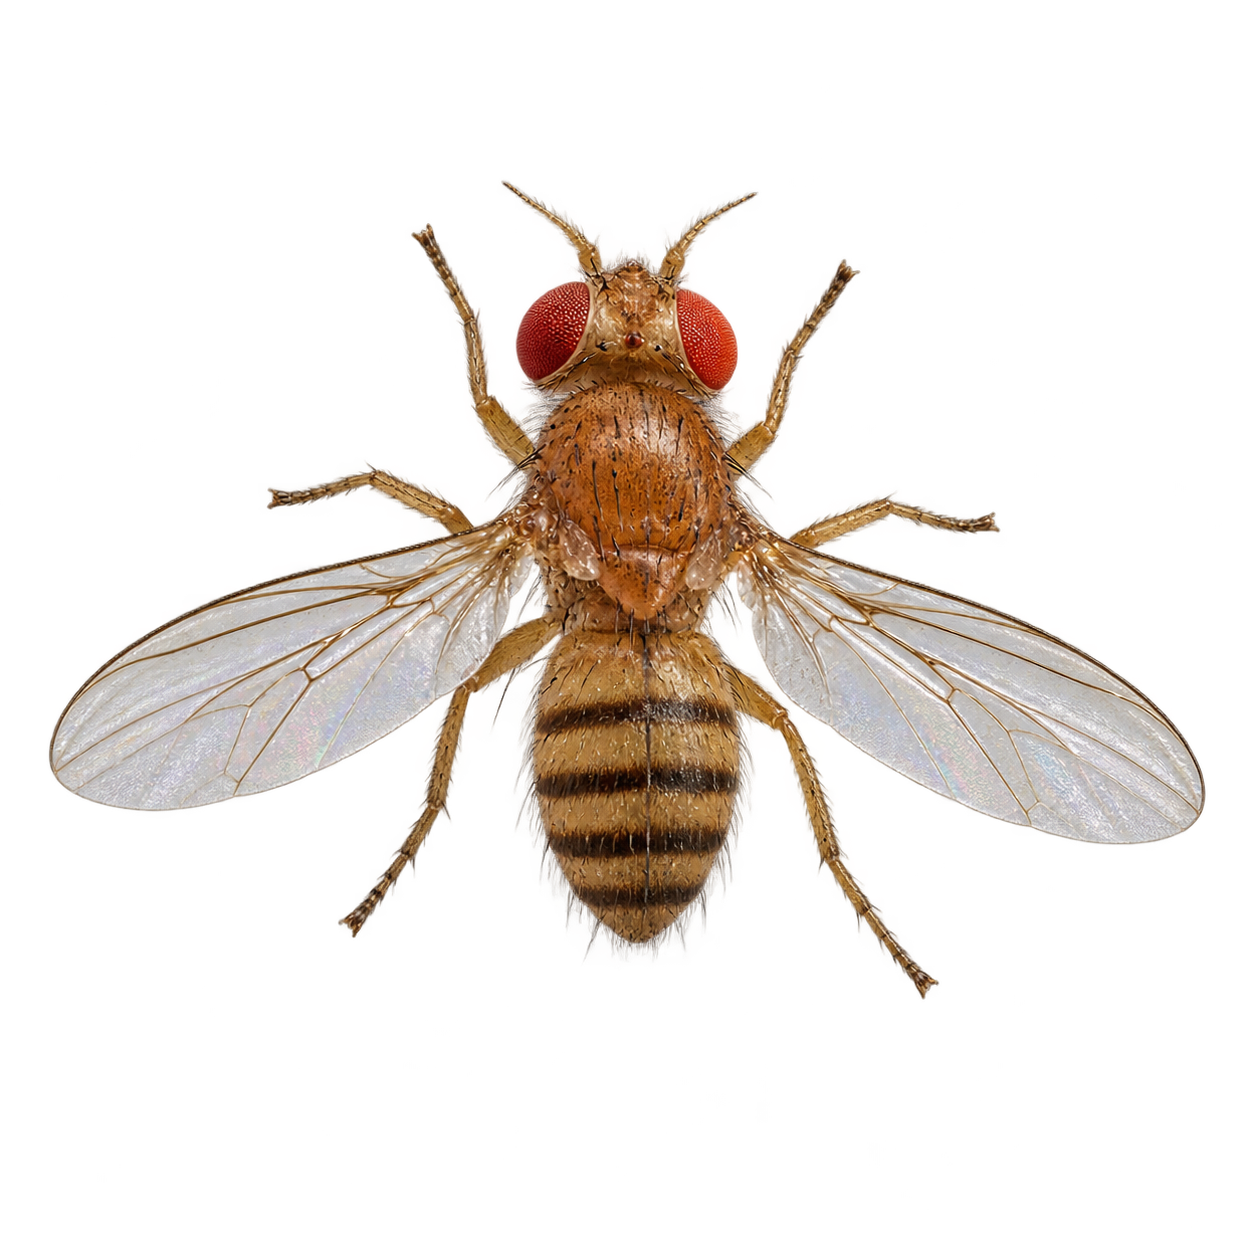
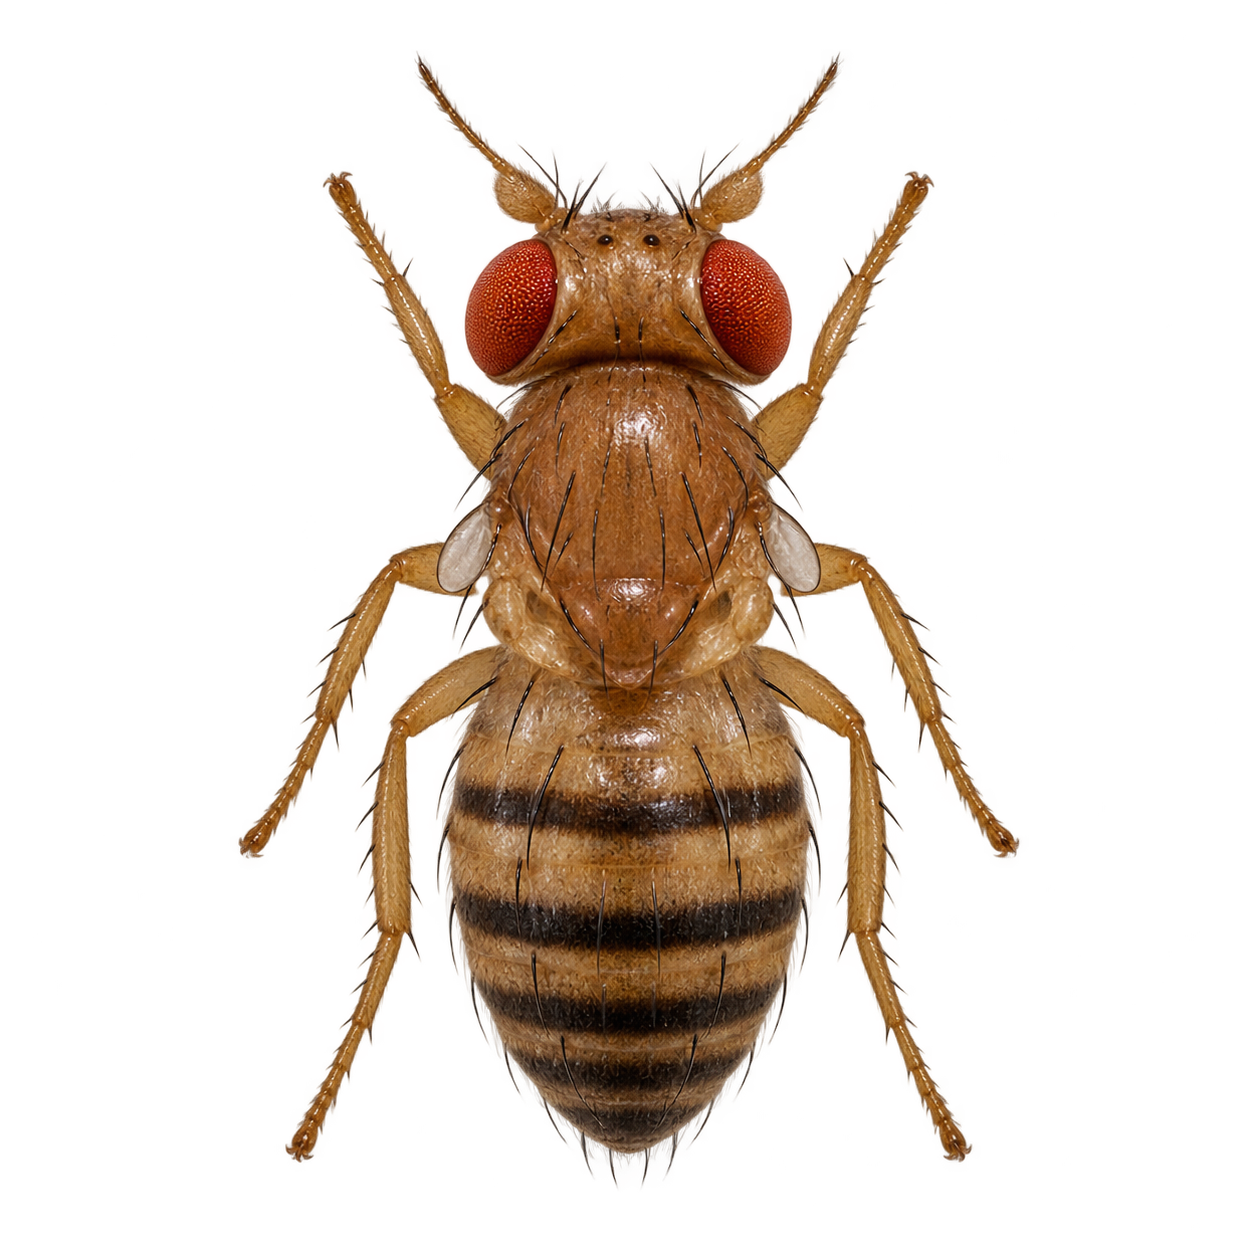
Install the fly artwork and register the wings by measured hinge
The three images were on main, at the repository root, with underscore
names. The renderer looks in site/assets/ for hyphen names. Move them:

  fly_body.png   -> site/assets/fruit-fly.png
  fly_shadow.png -> site/assets/fly-shadow.png
  fly_wings.png  -> site/assets/fly-wings.png

The bytes do not change.

The wing sheet is 2172 x 724 and holds 12 pairs in 4 columns and 3 rows,
but the pairs are not on a uniform grid. The hinges sit at x = 283, 818,
1354 and 1878, where a 4-column cut puts them at 271.5, 814.5, 1357.5 and
1900.5. Cell 11 also starts 13px above a uniform row boundary. A uniform
cut therefore slides the wings sideways by up to 22px each wingbeat and
clips one pair.

- Add scripts/measure_wing_sheet.py. It finds each pair by its alpha
  bounding box, then finds the hinge as the row where the two wings come
  closest together, and prints the WING_CELLS table.
- WING_CELLS in site/flight-view.js holds the 12 source rectangles and
  their hinges. drawWingSprite() puts the hinge on the body's wing root
  and clips there, so the pair pivots without lateral drift.
- WING_SHEET_SCALE 0.0030 makes a wing about as long as the body.
  WING_ANCHOR_Y -0.06 puts the root on the thorax.
- Drop WING_SHEET_COLS, WING_SHEET_ROWS and WING_SHEET_SPAN.

Verified in headless Chromium against the real images: the 12 cells step
through one wingbeat with the body fixed, a turn shows the left and right
wing at different amplitudes, and a grounded fly draws no wings.
[…]

diff --git a/site/flight-view.js b/site/flight-view.js
@@ -26,15 +26,31 @@
   wingSheet.src = new URL('assets/fly-wings.png', scriptURL).href;
   const ready = (image) => image.complete && image.naturalWidth > 0;
 
-  /* fly-wings.png is a 4 x 3 grid of wing pairs. The 12 cells are one wingbeat,
-   * read left to right along each row. Cell 0 is the top of the upstroke.
-   * Each cell holds both wings, head up, so a cell is clipped to one half to
-   * give the left and right wing their own stroke phase. */
-  const WING_SHEET_COLS = 4;
-  const WING_SHEET_ROWS = 3;
-  const WING_SHEET_FRAMES = WING_SHEET_COLS * WING_SHEET_ROWS;
-  const WING_SHEET_SPAN = 0.86;      // pair width, as a fraction of the body size
-  const WING_SHEET_ANCHOR_Y = -0.05; // hinge height on the thorax, fraction of size
+  /* fly-wings.png holds 12 wing pairs, one wingbeat, read left to right along
+   * each row. Cell 0 is the top of the upstroke. The pairs are NOT on a uniform
+   * grid: the hinges sit at x = 283, 818, 1354 and 1878, and one pair crosses a
+   * uniform row boundary. So each cell carries its own source rect and its own
+   * hinge, measured by scripts/measure_wing_sheet.py. Re-run that script if the
+   * artwork changes.
+   *   [sx, sy, sw, sh, hingeX, hingeY] - hinge is relative to the rect.
+   */
+  const WING_CELLS = [
+    [173, 21, 220, 192, 110, 178],  //  0  gap 4px
+    [670, 22, 297, 191, 148, 177],  //  1  gap 9px
+    [1180, 44, 347, 169, 174, 155],  //  2  gap 8px
+    [1671, 68, 417, 144, 207, 128],  //  3  gap 5px
+    [49, 298, 471, 109, 234, 44],  //  4  gap 9px
+    [582, 311, 473, 117, 236, 24],  //  5  gap 11px
+    [1137, 309, 433, 136, 217, 20],  //  6  gap 11px
+    [1692, 305, 376, 162, 186, 22],  //  7  gap 7px
+    [111, 527, 347, 172, 172, 20],  //  8  gap 10px
+    [646, 510, 344, 156, 172, 144],  //  9  gap 6px
+    [1183, 487, 339, 179, 171, 166],  // 10  gap 14px
+    [1765, 467, 230, 199, 113, 186],  // 11  gap 5px
+  ];
+
+  const WING_SHEET_SCALE = 0.0030; // sheet pixel -> body size units
+  const WING_ANCHOR_Y = -0.06;      // wing root on the thorax, fraction of size
   const SHADOW_SPRITE_GAIN = 1.7;    // the sprite is softer than the old gradient
   let metadata = null, latestSample = null, sampleReceivedAt = 0;
   let renderSample = null;
@@ -86,7 +102,7 @@
         let workerURL = url;
         if (liveWorker) {
           const versioned = new URL(url, document.baseURI);
-          versioned.searchParams.set('v', '6');
+          versioned.searchParams.set('v', '7');
           workerURL = versioned;
         }
         super(workerURL, options);
@@ -195,23 +211,22 @@
 
   function drawWingSprite(side, size, phase, amplitude, alpha) {
     if (amplitude <= 0.01) return;
-    const cellW = wingSheet.naturalWidth / WING_SHEET_COLS;
-    const cellH = wingSheet.naturalHeight / WING_SHEET_ROWS;
-    const frame = Math.min(WING_SHEET_FRAMES - 1,
-      Math.floor(modulo(phase, TAU) / TAU * WING_SHEET_FRAMES));
-    const sx = (frame % WING_SHEET_COLS) * cellW;
-    const sy = Math.floor(frame / WING_SHEET_COLS) * cellH;
+    const cell = WING_CELLS[Math.min(WING_CELLS.length - 1,
+      Math.floor(modulo(phase, TAU) / TAU * WING_CELLS.length))];
+    const [sx, sy, sw, sh, hingeX, hingeY] = cell;
 
-    const drawW = size * WING_SHEET_SPAN * (0.92 + 0.08 * amplitude);
-    const drawH = drawW * cellH / cellW;
-    const top = WING_SHEET_ANCHOR_Y * size - drawH / 2;
+    const scale = size * WING_SHEET_SCALE * (0.92 + 0.08 * amplitude);
+    const rootY = WING_ANCHOR_Y * size;
 
     ctx.save();
     ctx.globalAlpha = alpha;
+    // Clip on the hinge, so each half carries one wing. The pair is drawn with
+    // its hinge on the body's wing root, so the hinge is the local origin.
     ctx.beginPath();
-    ctx.rect(side < 0 ? -drawW : 0, top - drawH, drawW, drawH * 3);
+    ctx.rect(side < 0 ? -size * 2 : 0, -size * 2, size * 2, size * 4);
     ctx.clip();
-    ctx.drawImage(wingSheet, sx, sy, cellW, cellH, -drawW / 2, top, drawW, drawH);
+    ctx.drawImage(wingSheet, sx, sy, sw, sh,
+      -hingeX * scale, rootY - hingeY * scale, sw * scale, sh * scale);
     ctx.restore();
   }
 

diff --git a/index.html b/index.html
@@ -90,6 +90,6 @@
   <footer class="site-footer"><span>FlyHamlet <span class="caption-divider">/</span> 139,255 neurons. A new session every time.</span><a href="https://github.com/quadrin/FlyHamlet#experiment-1-typing-entropy">Read the findings <span aria-hidden="true">↗</span></a></footer>
 </div>
 <noscript><p class="no-script">Enable JavaScript to run the live simulator or watch saved recordings. <a href="https://github.com/quadrin/FlyHamlet#readme">Read the experiment and results on GitHub.</a></p></noscript>
-<script src="site/flight-view.js?v=6" defer></script>
+<script src="site/flight-view.js?v=7" defer></script>
 <script src="site/replay.js?v=workstation-1" defer></script>
 </body></html>

diff --git a/site/body.html b/site/body.html
@@ -83,5 +83,5 @@
   <footer class="site-footer"><span>FlyHamlet <span class="caption-divider">/</span> 139,255 neurons. A new session every time.</span><a href="https://github.com/quadrin/FlyHamlet#experiment-1-typing-entropy">Read the findings <span aria-hidden="true">↗</span></a></footer>
 </div>
 <noscript><p class="no-script">Enable JavaScript to run the live simulator or watch saved recordings. <a href="https://github.com/quadrin/FlyHamlet#readme">Read the experiment and results on GitHub.</a></p></noscript>
-<script src="site/flight-view.js?v=6" defer></script>
+<script src="site/flight-view.js?v=7" defer></script>
 <script src="site/replay.js?v=workstation-1" defer></script>

diff --git a/site/live-worker.js b/site/live-worker.js
@@ -2,7 +2,7 @@
  * The immutable full connectome is loaded once; each new session gets fresh state.
  */
 'use strict';
-importScripts('live-model.js', 'flight-model.js?v=6');
+importScripts('live-model.js', 'flight-model.js?v=7');
 
 let connectome = null;
 let manifest = null;

diff --git a/scripts/measure_wing_sheet.py b/scripts/measure_wing_sheet.py
@@ -1,0 +1,122 @@
+#!/usr/bin/env python3
+"""Measure site/assets/fly-wings.png and print the WING_CELLS table.
+
+The wing sheet holds 12 wing pairs in 4 columns and 3 rows, but the cells are
+not on a uniform grid: the hinges sit at x = 283, 818, 1354 and 1878, and one
+pair crosses a uniform row boundary. So the renderer does not divide the sheet.
+It uses the table that this script prints.
+
+For each cell the script finds the alpha bounding box, then the hinge: the row
+where the two wings come closest together. Paste the output into the
+WING_CELLS constant in site/flight-view.js.
+
+Usage: python3 scripts/measure_wing_sheet.py [path/to/fly-wings.png]
+"""
+import struct, sys, zlib
+
+THRESHOLD = 16
+PAD = 3
+# Column bands and row bands come from the gaps in the alpha profile. Re-check
+# them with --profile if the artwork is re-exported.
+COLUMN_HINGES = [283, 818, 1354, 1878]
+COLUMN_BANDS = [(0, 540), (541, 1085), (1086, 1620), (1621, 2171)]
+ROW_BANDS = [(0, 255), (256, 466), (467, 723)]
+
+
+def load_rgba(path):
+    data = open(path, 'rb').read()
+    pos, idat, width, height, depth, colour = 8, b'', 0, 0, 0, 0
+    while pos < len(data):
+        length = struct.unpack('>I', data[pos:pos + 4])[0]
+        kind = data[pos + 4:pos + 8]
+        body = data[pos + 8:pos + 8 + length]
+        if kind == b'IHDR':
+            width, height, depth, colour = struct.unpack('>IIBB', body[:10])
+        elif kind == b'IDAT':
+            idat += body
+        elif kind == b'IEND':
+            break
+        pos += 12 + length
+    if colour != 6 or depth != 8:
+        raise SystemExit(f'{path}: need 8-bit RGBA, got colour type {colour} depth {depth}')
+    raw = zlib.decompress(idat)
+    bpp, stride = 4, width * 4
+    out, prev, pos = bytearray(height * stride), bytearray(stride), 0
+    for y in range(height):
+        filt = raw[pos]; pos += 1
+        line = bytearray(raw[pos:pos + stride]); pos += stride
+        if filt == 1:
+            for i in range(bpp, stride):
+                line[i] = (line[i] + line[i - bpp]) & 255
+        elif filt == 2:
+            for i in range(stride):
+                line[i] = (line[i] + prev[i]) & 255
+        elif filt == 3:
+            for i in range(stride):
+                left = line[i - bpp] if i >= bpp else 0
+                line[i] = (line[i] + ((left + prev[i]) >> 1)) & 255
+        elif filt == 4:
+            for i in range(stride):
+                a = line[i - bpp] if i >= bpp else 0
+                c = prev[i - bpp] if i >= bpp else 0
+                b = prev[i]
+                pa, pb, pc = abs(b - c), abs(a - c), abs(a + b - 2 * c)
+                line[i] = (line[i] + (a if pa <= pb and pa <= pc else b if pb <= pc else c)) & 255
+        out[y * stride:(y + 1) * stride] = line
+        prev = line
+    return width, height, bytes(out[i * 4 + 3] for i in range(width * height))
+
+
+def bounding_box(alpha, width, x0, x1, y0, y1):
+    bx0, by0, bx1, by1 = width, y1, -1, -1
+    for y in range(y0, y1 + 1):
+        row = y * width
+        for x in range(x0, x1 + 1):
+            if alpha[row + x] > THRESHOLD:
+                bx0, bx1 = min(bx0, x), max(bx1, x)
+                by0, by1 = min(by0, y), max(by1, y)
+    return None if bx1 < 0 else (bx0, by0, bx1, by1)
+
+
+def hinge_row(alpha, width, box, hinge_x):
+    """The wings meet at the root, so the hinge is the row where the gap between
+    the left wing's right edge and the right wing's left edge is smallest."""
+    x0, y0, x1, y1 = box
+    best_gap, rows = 1 << 30, []
+    for y in range(y0, y1 + 1):
+        row = y * width
+        left = next((x for x in range(hinge_x, x0 - 1, -1) if alpha[row + x] > THRESHOLD), None)
+        right = next((x for x in range(hinge_x, x1 + 1) if alpha[row + x] > THRESHOLD), None)
+        if left is None or right is None:
+            continue
+        gap = right - left
+        if gap < best_gap:
+            best_gap, rows = gap, [y]
+        elif gap == best_gap:
+            rows.append(y)
+    return sum(rows) / len(rows), best_gap
+
+
+def main():
+    path = sys.argv[1] if len(sys.argv) > 1 else 'site/assets/fly-wings.png'
+    width, height, alpha = load_rgba(path)
+    print(f'// {path}  {width} x {height}', file=sys.stderr)
+    print('  const WING_CELLS = [')
+    for row, (ry0, ry1) in enumerate(ROW_BANDS):
+        for col, (cx0, cx1) in enumerate(COLUMN_BANDS):
+            box = bounding_box(alpha, width, cx0, min(cx1, width - 1), ry0, min(ry1, height - 1))
+            if box is None:
+                raise SystemExit(f'cell {row * 4 + col} is empty; check the band constants')
+            hinge_x = COLUMN_HINGES[col]
+            hinge_y, gap = hinge_row(alpha, width, box, hinge_x)
+            sx = max(0, box[0] - PAD)
+            sy = max(0, box[1] - PAD)
+            sw = min(width, box[2] + 1 + PAD) - sx
+            sh = min(height, box[3] + 1 + PAD) - sy
+            print(f'    [{sx}, {sy}, {sw}, {sh}, {hinge_x - sx}, {round(hinge_y - sy)}],'
+                  f'  // {row * 4 + col:2}  gap {gap}px')
+    print('  ];')
+
+
+if __name__ == '__main__':
+    main()

diff --git a/site/assets/README.md b/site/assets/README.md
@@ -38,14 +38,30 @@ Tune the strength with `SHADOW_SPRITE_GAIN` in `site/flight-view.js`.
 
 ## `fly-wings.png` — wingbeat sheet
 
-Transparent PNG. A 4 x 3 grid of equal cells, so 12 cells in total. Every cell
-holds **both** wings, head up, with the hinges at the centre of the cell. The
-12 cells are one complete wingbeat, read left to right along row 1, then row 2,
-then row 3. Cell 0, at the top left, is the top of the upstroke.
+Transparent PNG. 12 wing pairs in 4 columns and 3 rows. Every cell holds
+**both** wings, head up. The 12 cells are one complete wingbeat, read left to
+right along row 1, then row 2, then row 3. Cell 0, at the top left, is the top
+of the upstroke.
 
-The renderer clips each cell to one half, so the left and right wing can hold
-different stroke phases while the fly turns. Keep the hinges on the cell centre
-line, or the two halves will not meet.
+The cells are **not** on a uniform grid. In the current artwork the hinges sit
+at x = 283, 818, 1354 and 1878, which a 4-column cut would put at 271.5, 814.5,
+1357.5 and 1900.5. One pair also crosses a uniform row boundary. So the renderer
+does not divide the sheet. It holds a table of 12 source rectangles, each with
+its own hinge, in the `WING_CELLS` constant in `site/flight-view.js`.
 
-Geometry lives in `site/flight-view.js`: `WING_SHEET_COLS`, `WING_SHEET_ROWS`,
-`WING_SHEET_SPAN` and `WING_SHEET_ANCHOR_Y`.
+**If you change this image, regenerate the table:**
+
+    python3 scripts/measure_wing_sheet.py > /tmp/cells.js
+
+Paste the result over `WING_CELLS`. The script finds each pair by its alpha
+bounding box, then finds the hinge as the row where the two wings come closest
+together. Check the `COLUMN_HINGES`, `COLUMN_BANDS` and `ROW_BANDS` constants at
+the top of the script if the layout moves.
+
+The renderer puts the hinge on the body's wing root and clips there, so the left
+and right wing can hold different stroke phases while the fly turns.
+
+Two other constants in `site/flight-view.js` set the fit: `WING_SHEET_SCALE`
+(sheet pixel to body size; 0.0030 makes a wing about as long as the body) and
+`WING_ANCHOR_Y` (the wing root on the thorax, -0.06 of the body size above
+centre).
